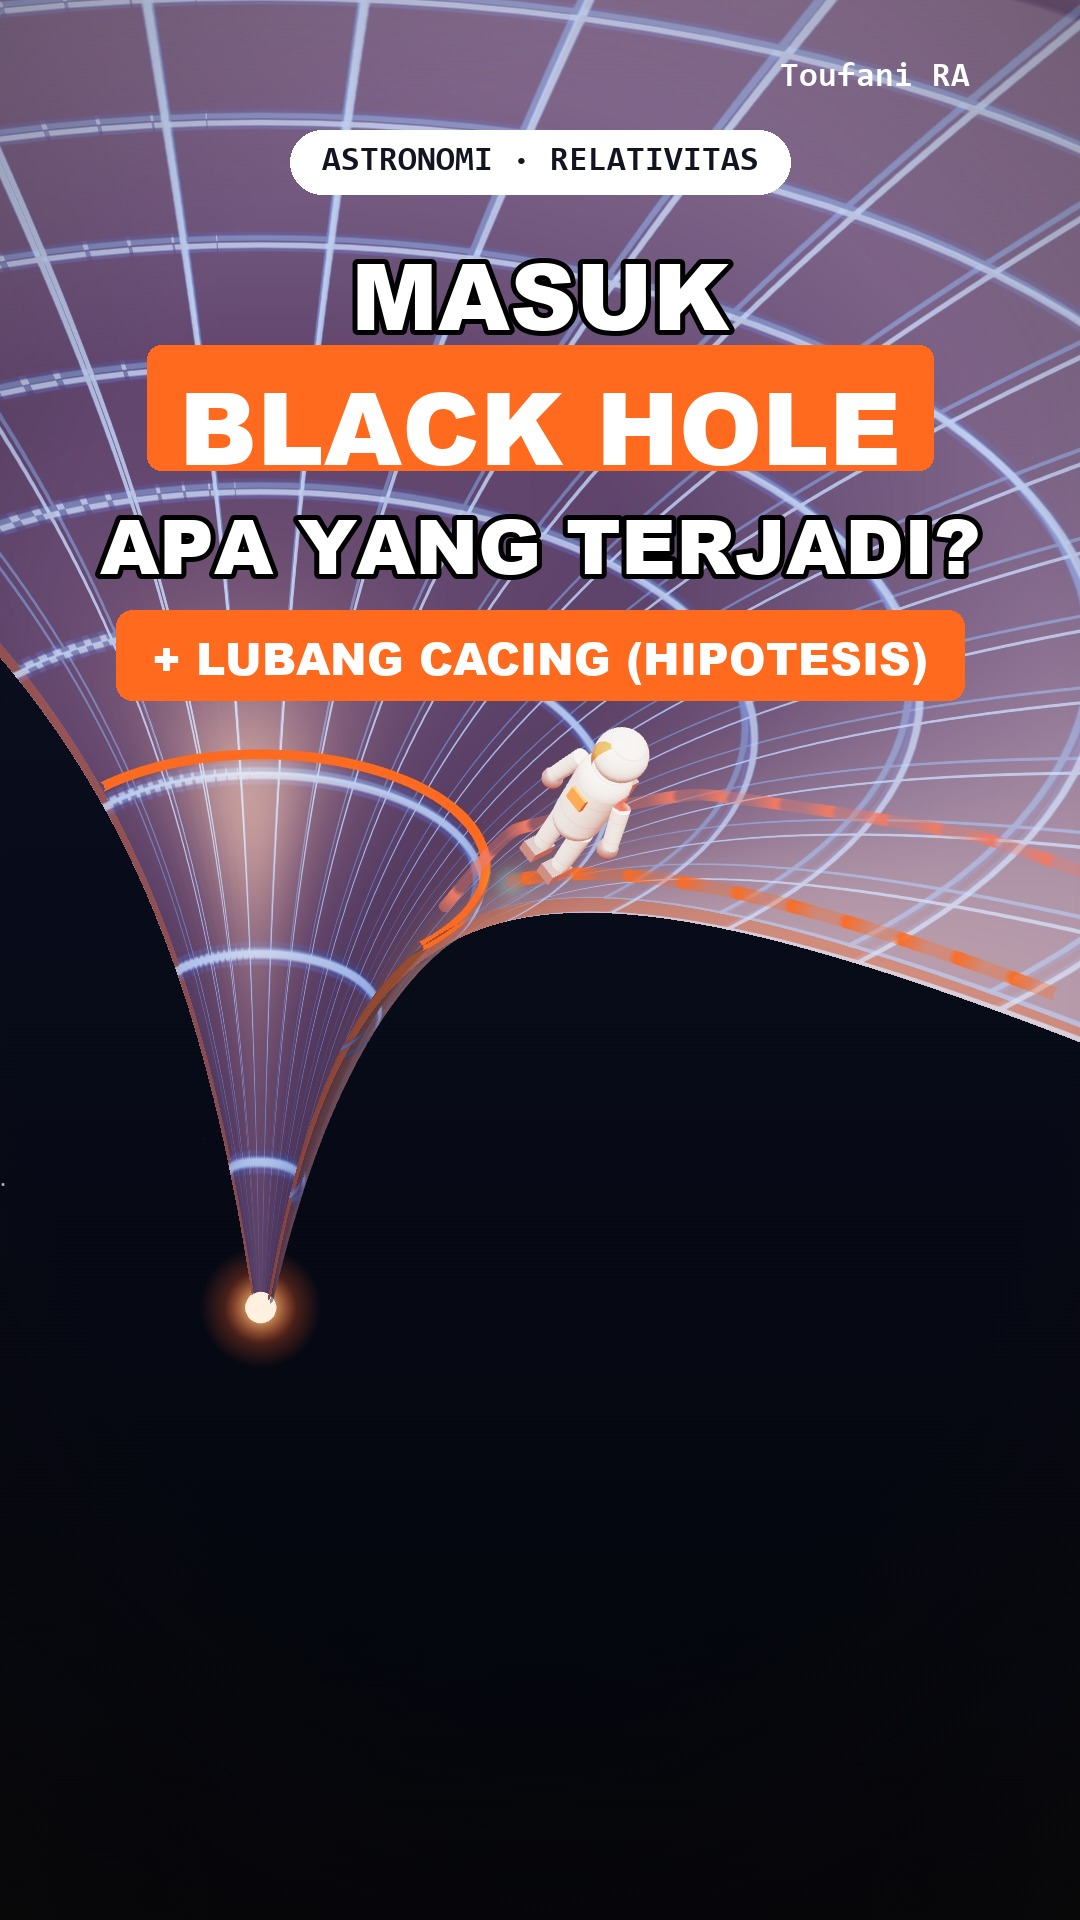
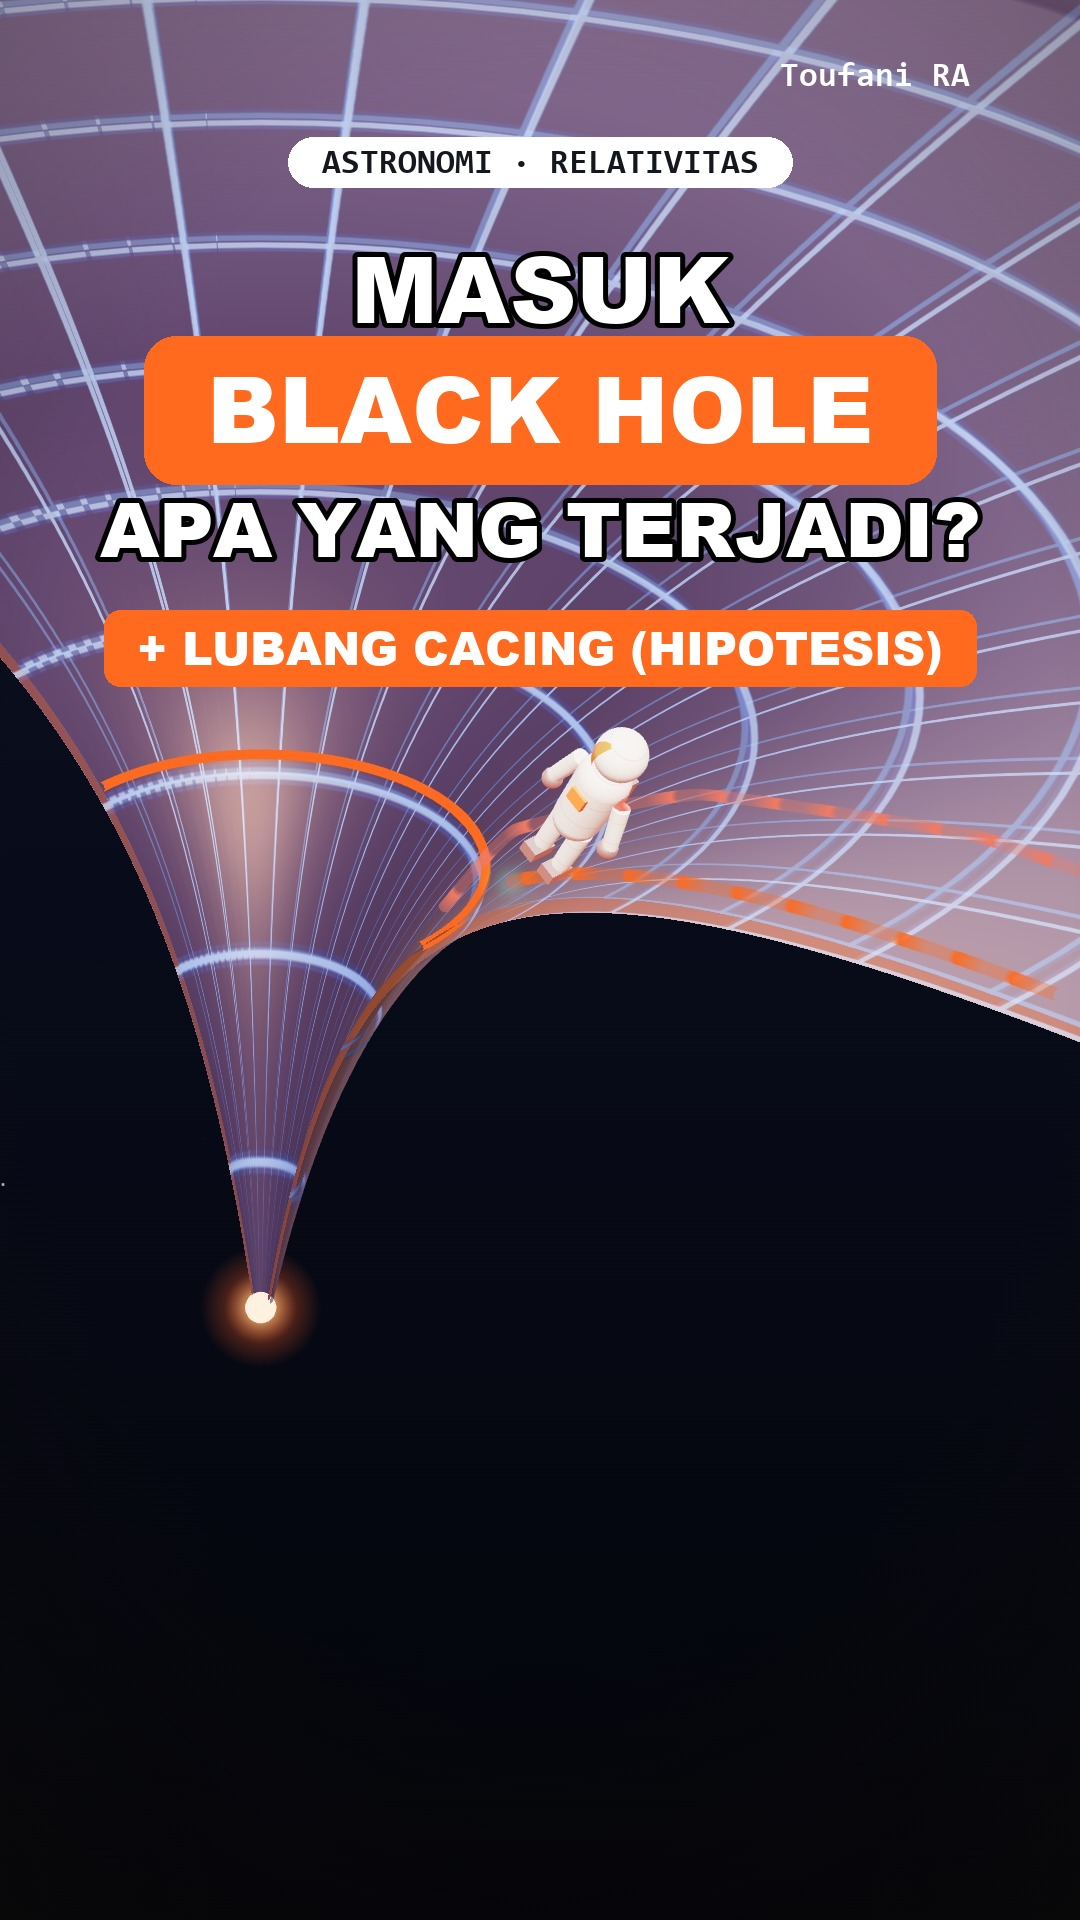
Sampul: teks di blok warna ditengahkan (cover.py), sampul 6 video dibuat ulang

Changed region(s): [[0.0917, 0.0625, 0.9167, 0.375]]

diff --git a/.cover.py b/.cover.py
@@ -1,0 +1,45 @@
+"""Generator sampul Reels gaya Toufani RA. Teks di dalam pill/blok DITENGAHKAN secara visual (tinggi huruf kapital, padding sama di semua sisi).
+Pakai: python .cover.py [nama ...]   -> <folder>/thumbnail.jpg"""
+import sys, os
+from PIL import Image, ImageDraw, ImageFont
+B = 'C:/Windows/Fonts/ariblk.ttf'; M = 'C:/Windows/Fonts/consolab.ttf'
+f = lambda p, s: ImageFont.truetype(p, s)
+W, H = 1080, 1920
+# folder: (gambar dasar, tag, baris1, kunci (blok), baris3, pill fakta, aksen, warna teks pada aksen, tag-teks-gelap)
+C = {
+ 'nuklir': ('post/nuklir/f0.jpg', 'ENERGI \u00b7 NUKLIR', 'KENAPA', 'NUKLIR BISA', 'JADI LISTRIK?', 'ATOM DIBELAH \u2192 LISTRIK', (18,242,198), (4,30,26)),
+ 'bom-atom': ('post/bom-atom/f2.jpg', 'FISIKA \u00b7 ENERGI ATOM', 'KENAPA', 'BOM ATOM', 'SEDAHSYAT ITU?', '1 NEUTRON \u2192 REAKSI BERANTAI', (255,90,31), (255,255,255)),
+ 'entanglement': ('entanglement/.clean2.jpg', 'FISIKA KUANTUM', 'APA ITU', 'ENTANGLEMENT', 'KUANTUM?', '2 FOTON \u00b7 1 KETERKAITAN', (122,92,255), (255,255,255)),
+ 'blackhole': ('blackhole/.clean.jpg', 'ASTRONOMI \u00b7 RELATIVITAS', 'MASUK', 'BLACK HOLE', 'APA YANG TERJADI?', '+ LUBANG CACING (HIPOTESIS)', (255,106,31), (255,255,255)),
+ 'mariana': ('mariana/.clean.jpg', 'SAMUDRA \u00b7 LAUT DALAM', 'MENYELAM KE', 'PALUNG MARIANA', 'APA YANG TERJADI?', '10,9 KM \u00b7 TEKANAN >1.000\u00d7', (25,227,255), (4,28,40)),
+ 'pelari': ('post/pelari/f6.jpg', 'FISIKA \u00b7 RELATIVITAS', 'PRIA BERLARI', 'MENDEKATI CAHAYA', 'APA YANG TERJADI?', '7\u00d7 KELILING BUMI / DETIK', (46,155,255), (255,255,255)),
+}
+def pill(d, cx, cy, text, font, bg, fg, radius=None, padx=None, pady=None, stroke=0):
+    """Blok berisi teks dengan teks tepat di tengah (kapital: pakai tinggi huruf kapital, bukan tinggi font)."""
+    L, T, R, Bt = d.textbbox((0, 0), text, font=font, anchor='ls')      # T negatif = tinggi huruf di atas garis dasar
+    cap = -T; tw = R - L
+    padx = padx if padx is not None else int(cap * 0.95); pady = pady if pady is not None else int(cap * 0.62)
+    w, h = tw + 2 * padx, cap + 2 * pady
+    d.rounded_rectangle([cx - w / 2, cy - h / 2, cx + w / 2, cy + h / 2], radius=radius if radius is not None else int(h * .22), fill=bg)
+    d.text((cx - tw / 2 - L, cy + cap / 2), text, font=font, fill=fg, anchor='ls', stroke_width=stroke, stroke_fill=(0, 0, 0))
+    return w, h
+def teks(d, cx, cy, text, font, fill, stroke=0):
+    L, T, R, Bt = d.textbbox((0, 0), text, font=font, anchor='ls'); cap = -T
+    d.text((cx - (R - L) / 2 - L, cy + cap / 2), text, font=font, fill=fill, anchor='ls', stroke_width=stroke, stroke_fill=(0, 0, 0))
+def fit(d, text, size, maxw, path=B):
+    fo = f(path, size)
+    while d.textlength(text, font=fo) > maxw and size > 20: size -= 2; fo = f(path, size)
+    return fo
+SEL = sys.argv[1:]
+for nama, (dasar, tag, l1, kunci, l3, fakta, acc, fg) in C.items():
+    if SEL and nama not in SEL: continue
+    im = Image.open(dasar).convert('RGBA')
+    if im.size != (W, H): im = im.crop((0, 285, 1080, 1635)).resize((W, H))  # gambar 4:5 -> penuhi 9:16
+    d = ImageDraw.Draw(im); cx = W / 2
+    pill(d, cx, 162, tag, f(M, 34), (255, 255, 255, 235), (20, 24, 30, 255), radius=34, padx=34, pady=14)
+    teks(d, cx, 290, l1, fit(d, l1, 92, 980), (255, 255, 255, 255), 5)
+    pill(d, cx, 410, kunci, fit(d, kunci, 92, 900), acc + (255,), fg + (255,))
+    teks(d, cx, 530, l3, fit(d, l3, 76, 980), (255, 255, 255, 255), 5)
+    pill(d, cx, 648, fakta, fit(d, fakta, 46, 900), acc + (255,), fg + (255,), pady=None)
+    d.text((W - 300, 60), 'Toufani RA', font=f(M, 34), fill=(255, 255, 255, 235))
+    out = f'{nama}/thumbnail.jpg'; im.convert('RGB').save(out, quality=92); print(out)
